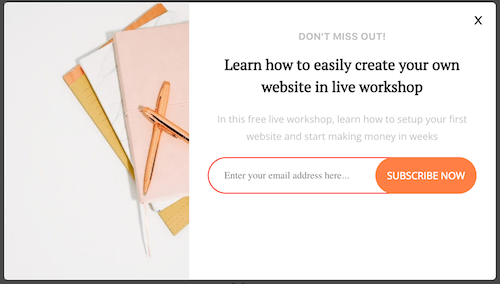
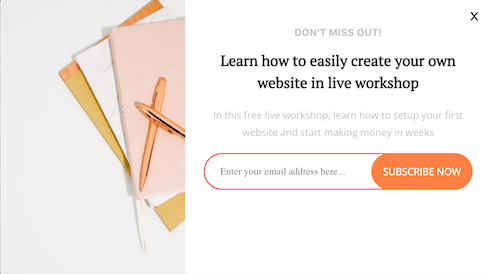
Rescript lightbox completed

diff --git a/src/PremiumTemplates/OptinForms/Lightbox/Rescript.php b/src/PremiumTemplates/OptinForms/Lightbox/Rescript.php
@@ -81,6 +81,14 @@ class Rescript extends AbstractOptinTheme
                 ],
 
                 // -- default for fields sections -- //
+
+                [
+                    'name' => 'mo_optin_form_email_field_placeholder_default',
+                    'value' => __("Enter your email...", 'mailoptin'),
+                    'optin_class' => 'Rescript',
+                    'optin_type' => 'lightbox'
+                ],
+
                 [
                     'name' => 'mo_optin_form_email_field_color_default',
                     'value' => '#737373',
@@ -504,6 +512,11 @@ HTML;
                     font-weight: 700;
                     color: #bebebe;
                     font-size: 16px;
+                    display: block;
+                    border: 0px;
+                    line-height: normal;
+                    height: auto;
+
                 }
 
                 div#$optin_css_id.rescript_container {
@@ -516,14 +529,12 @@ HTML;
 
                div#$optin_css_id.rescript_container .rescript_main .rescript_description {
                     font-family: 'Open Sans', sans-serif;
-                }
-
-               div#$optin_css_id.rescript_container .rescript_main .rescript_description {
-                    line-height: 1.8;
                     font-size: 16px;
-                    font-family: 'Open Sans', sans-serif;
                     line-height: 1.8;
                     color: #bebebe;
+                    display: block;
+                    border: 0px;
+                    height: auto;
                 }
                             
         div#$optin_css_id.rescript_container .mo-optin-error {
@@ -534,7 +545,7 @@ HTML;
             font-size: 14px;
         }
 
-               div#$optin_css_id.rescript_container .rescript_inputField {
+               div#$optin_css_id.rescript_container input.rescript_inputField {
                     border: 2px solid #ff4b4b;
                     width: 100%;
                     border-radius: 100px;
@@ -544,6 +555,11 @@ HTML;
                     font-family: 'Open Sans', sans-serif;
                     padding-left: 25px !important;
                     color: #737373;
+                }
+
+               div#$optin_css_id.rescript_container input.rescript_inputField:focus,
+               div#$optin_css_id.rescript_container input.rescript_submitBtn:focus {
+                    outline: 0;
                 }
 
                div#$optin_css_id.rescript_container .rescript_blockify {
@@ -570,6 +586,11 @@ HTML;
                     font-weight: bold;
                     font-size: 24px;
                     margin: 20px 0;
+                    
+                    display: block;
+                    border: 0px;
+                    line-height: normal;
+                    height: auto;
                 }
 
                div#$optin_css_id.rescript_container .rescript_form {
@@ -578,7 +599,7 @@ HTML;
                     position: relative;
                 }
 
-              div#$optin_css_id.rescript_container .rescript_submitBtn {
+              div#$optin_css_id.rescript_container input.rescript_submitBtn {
                     width: 100%;
                     background: #ff7f45;
                     border: 0px;
@@ -614,11 +635,11 @@ HTML;
                         padding: 50px;
                     }
 
-                   div#$optin_css_id.rescript_container .rescript_submitBtn {
+                   div#$optin_css_id.rescript_container input.rescript_submitBtn {
                         width: 165px;
-                        margin-top: 0px;
+                        margin-top: 0;
                         background: #ff7f45;
-                        border: 0px;
+                        border: 0;
                         padding: 10px;
                         border-radius: 100px;
                         height: 60px !important;
